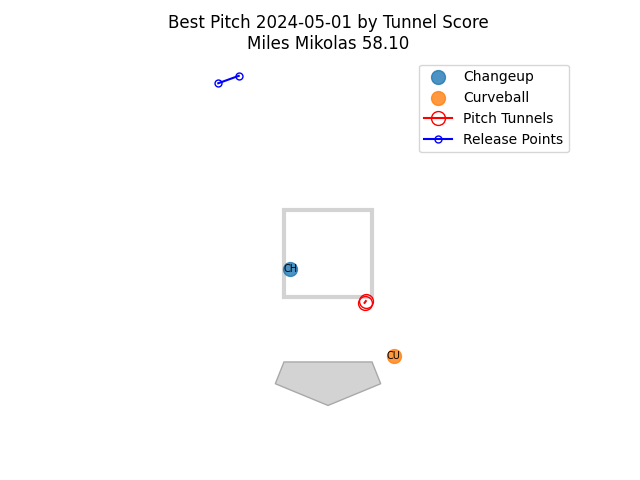
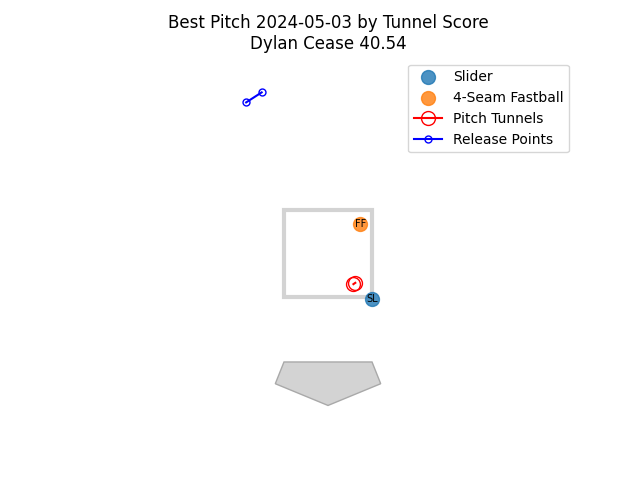
Fixed bug where yesterday was hard coded into a constant, making it such that the program will always post the best tunnel score from the day you initially start the program and not increment days. Also included more in depth error handling and logging to the screen and debugging options as well.

diff --git a/MLBTunnelBot/update.py b/MLBTunnelBot/update.py
@@ -1,29 +1,26 @@
-from typing import Optional
 import polars as pl
+import pandas as pd
 import numpy as np
 import pybaseball
 import datetime
 from matplotlib import axes
+from typing import Any
 
+from .exceptions import EmptyStatcastDFException
 from .plot_tunnel import plot_strike_zone
-from .data import keeper_cols
+from .data import KEEPER_COLS
 
 
-YEAR = str(datetime.date.today().year)
-MONTH = str(datetime.date.today().month)
-YESTERDAY = datetime.date.today() - datetime.timedelta(days=1)
-
-
-def _get_yesterdays_pitches() -> Optional[pl.DataFrame]:
+def _get_yesterdays_pitches(yesterdays_date: datetime.date) -> pl.DataFrame:
     yesterday_df: pl.DataFrame = pl.from_pandas(
         pybaseball.statcast(
-            start_dt=str(YESTERDAY),
-            end_dt=str(YESTERDAY),
+            start_dt=f"{yesterdays_date}",
+            end_dt=f"{yesterdays_date}",
         )
     )
     if yesterday_df.is_empty():
-        # caller of this function handles when this is None
-        return None
+        raise EmptyStatcastDFException()
+
     return yesterday_df
 
 
@@ -49,8 +46,12 @@ def _get_player_names(pitches_df: pl.DataFrame) -> pl.DataFrame:
         pitchers["name_first"] + " " + pitchers["name_last"]
     ).str.title()
 
+    subset = pitchers[["key_mlbam", "name"]]
+    assert isinstance(
+        subset, pd.DataFrame
+    ), "name subset is not a dataframe."  # just to make my editor happy
     return pitches_df.join(
-        other=pl.from_pandas(pitchers[["key_mlbam", "name"]]),
+        other=pl.from_pandas(subset),
         left_on="pitcher",
         right_on="key_mlbam",
     )
@@ -91,7 +92,7 @@ def _compute_tunnel_score(statcast_pitches_df: pl.DataFrame) -> pl.DataFrame:
     )
 
 
-def _plot_pitches(tunneled_pitch: pl.DataFrame) -> axes.Axes:
+def _plot_pitches(tunneled_pitch: pl.DataFrame, yesterday: datetime.date) -> axes.Axes:
     # input should be a polars dataframe with just one pitch
     # and it s previous one
 
@@ -137,14 +138,16 @@ def _plot_pitches(tunneled_pitch: pl.DataFrame) -> axes.Axes:
         data=pitch2.join(
             other=pl.concat([p1, p2]), on=["game_date", "at_bat_number"]
         ).to_pandas(),
-        title=f"Best Pitch {YESTERDAY} by Tunnel Score\n{pitcher} {tunnel_score:.2f}",
+        title=f"Best Pitch {yesterday} by Tunnel Score\n{pitcher} {tunnel_score:.2f}",
         colorby="pitch_name",
         annotation="pitch_type",
     )
     return fig
 
 
-def _get_film_room_video(pitch: pl.DataFrame) -> tuple[str, str]:
+def _get_film_room_video(
+    pitch: pl.DataFrame, yesterday: datetime.date
+) -> tuple[str, str]:
     inning = pitch.select("inning").item()
     top_bot = pitch.select("inning_topbot").item()  # needs to be either TOP or BOT
     balls = pitch.select("balls").item()
@@ -156,35 +159,41 @@ def _get_film_room_video(pitch: pl.DataFrame) -> tuple[str, str]:
     prev_strikes = pitch.select("prev_strikes").item()
     prev_balls = pitch.select("prev_balls").item()
 
-    url1 = f"https://www.mlb.com/video/?q=Season+%3D+%5B{YEAR}%5D+AND+Date+%3D+%5B%22{YESTERDAY}%22%5D+AND+PitcherId+%3D+%5B{pitcher_id}%5D+AND+TopBottom+%3D+%5B%22{top_bot.upper()}%22%5D+AND+Outs+%3D+%5B{outs}%5D+AND+Balls+%3D+%5B{balls}%5D+AND+Strikes+%3D+%5B{strikes}%5D+AND+Inning+%3D+%5B{inning}%5D+Order+By+Timestamp+DESC"
-    url2 = f"https://www.mlb.com/video/?q=Season+%3D+%5B{YEAR}%5D+AND+Date+%3D+%5B%22{YESTERDAY}%22%5D+AND+PitcherId+%3D+%5B{pitcher_id}%5D+AND+TopBottom+%3D+%5B%22{top_bot.upper()}%22%5D+AND+Outs+%3D+%5B{prev_outs}%5D+AND+Balls+%3D+%5B{prev_balls}%5D+AND+Strikes+%3D+%5B{prev_strikes}%5D+AND+Inning+%3D+%5B{inning}%5D+Order+By+Timestamp+DESC"
-    return url1, url2
+    year = yesterday.year
+    return (
+        f"https://www.mlb.com/video/?q=Season+%3D+%5B{year}%5D+AND+Date+%3D+%5B%22{yesterday}%22%5D+AND+PitcherId+%3D+%5B{pitcher_id}%5D+AND+TopBottom+%3D+%5B%22{top_bot.upper()}%22%5D+AND+Outs+%3D+%5B{outs}%5D+AND+Balls+%3D+%5B{balls}%5D+AND+Strikes+%3D+%5B{strikes}%5D+AND+Inning+%3D+%5B{inning}%5D+Order+By+Timestamp+DESC",
+        f"https://www.mlb.com/video/?q=Season+%3D+%5B{year}%5D+AND+Date+%3D+%5B%22{yesterday}%22%5D+AND+PitcherId+%3D+%5B{pitcher_id}%5D+AND+TopBottom+%3D+%5B%22{top_bot.upper()}%22%5D+AND+Outs+%3D+%5B{prev_outs}%5D+AND+Balls+%3D+%5B{prev_balls}%5D+AND+Strikes+%3D+%5B{prev_strikes}%5D+AND+Inning+%3D+%5B{inning}%5D+Order+By+Timestamp+DESC",
+    )
 
 
-def yesterdays_top_tunnel() -> Optional[dict[str, str | float]]:
-    yesterdays_df: Optional[pl.DataFrame] = _get_yesterdays_pitches()
-    if yesterdays_df is None:
-        return None
+def yesterdays_top_tunnel(yesterday: datetime.date) -> dict[str, Any]:
+    yesterdays_df: pl.DataFrame = _get_yesterdays_pitches(yesterday)
 
     tied_df: pl.DataFrame = _tie_pitches_to_previous(yesterdays_df)
     tunnel_df: pl.DataFrame = _compute_tunnel_score(tied_df)
 
     # drop missing values from tunnel_df
-    tunnel_df = tunnel_df.drop_nulls(subset=keeper_cols).select(
-        keeper_cols,
+    tunnel_df = tunnel_df.drop_nulls(subset=KEEPER_COLS).select(
+        KEEPER_COLS,
     )
 
     tunnel_df = (
-        tunnel_df.drop_nulls(subset=keeper_cols)
-        .select(keeper_cols)
+        tunnel_df.drop_nulls(subset=KEEPER_COLS)
+        .select(KEEPER_COLS)
         .sort("tunnel_score", descending=True)
         .head(1)
     )
 
     tunnel_df = _get_player_names(tunnel_df)  # add player names to the dataframe
-    _ = _plot_pitches(tunnel_df)  # this will save the plot to the assets folder
-    film_room_link1, film_room_link2 = _get_film_room_video(pitch=tunnel_df)
+    _ = _plot_pitches(
+        tunnel_df, yesterday=yesterday
+    )  # this will save the plot to the assets folder
+    film_room_link1, film_room_link2 = _get_film_room_video(
+        pitch=tunnel_df,
+        yesterday=yesterday,
+    )
     return dict(
+        yesterday=yesterday,
         pitcher_name=tunnel_df.select("name").item(),
         pitcher_id=tunnel_df.select("pitcher").item(),
         pitch_type=tunnel_df.select("pitch_name").item(),

diff --git a/MLBTunnelBot/x.py b/MLBTunnelBot/x.py
@@ -1,15 +1,11 @@
-from typing import Optional
+import datetime
+from typing import Any
 import requests
 import logging
 
 from .x_api_info import api, client
-from .update import yesterdays_top_tunnel, YESTERDAY
-from .data import (
-    hashtag_map,
-    TUNNEL_PLOT_DIR,
-    PROFILE_PIC_DIR,
-    DEFAULT_PROFILE_PIC_DIR,
-)
+from .update import yesterdays_top_tunnel
+from .data import *
 
 
 def _update_profile_picture(player_mlbam_id: str | float) -> None:
@@ -36,22 +32,22 @@ def _build_tweet_text(**kwargs) -> str:
     assert kwargs is not None, "No kwargs passed to _build_tweet_text"
     assert isinstance(kwargs, dict), "kwargs is not a dictionary in _build_tweet_text"
 
-    pitcher_name = kwargs.get("pitcher_name")
-    pitch_type = kwargs.get("pitch_type")
-    home_team = kwargs.get("home_team")
-    away_team = kwargs.get("away_team")
-    pitch1_link = kwargs.get("film_room_link1")
-    pitch2_link = kwargs.get("film_room_link2")
-    tunnel_score = kwargs.get("tunnel_score")
+    for arg in BUILD_TWEET_ARGS:
+        assert arg in kwargs.keys(), f"{arg} not in build tweet kwargs."
 
-    title = f"TOP PITCH BY TUNNEL SCORE {YESTERDAY}"
-    t_score = f"{pitcher_name} {pitch_type}: {tunnel_score:.3f}"
-    team_hashtags = (
-        f"#{hashtag_map.get(home_team, home_team)} vs. "
-        f"#{hashtag_map.get(away_team, away_team)}"
-    )
-    link_text = f"MLB Film Room Links:\nprevious pitch: {pitch1_link}\ntunneled pitch: {pitch2_link}"
-    other_hashtags = f"#MLBTunnelBot #MLB #Baseball #{''.join(pitcher_name.split())}"
+    title = f"TOP PITCH BY TUNNEL SCORE {kwargs["yesterday"]}"
+    t_score = f"{kwargs["pitcher_name"]} {kwargs["pitch_type"]}: {kwargs["tunnel_score"]:.3f}"
+
+    home_hashtag = HASHTAG_MAP.get(kwargs["home_team"], None)
+    away_hashtag = HASHTAG_MAP.get(kwargs["away_team"], None)
+
+    assert home_hashtag is not None, f"home hashtag is None for {kwargs["home_team"]}"
+    assert away_hashtag is not None, f"away hashtag is None for {kwargs["away_team"]}"
+
+    team_hashtags = f"#{away_hashtag} @ #{home_hashtag}"
+
+    link_text = f"MLB Film Room Links:\nprevious pitch: {kwargs["film_room_link1"]}\ntunneled pitch: {kwargs["film_room_link2"]}"
+    other_hashtags = f"#MLBTunnelBot #MLB #Baseball #{''.join(kwargs["pitcher_name"].split())}"
     return "\n\n".join(
         [
             title,
@@ -63,21 +59,26 @@ def _build_tweet_text(**kwargs) -> str:
     )
 
 
-def write() -> bool:
-    pitch_info: Optional[dict[str, str | float]] = yesterdays_top_tunnel()
-
-    if pitch_info is None:
-        logging.warning(f"There must not have been any games on {YESTERDAY}")
-        return False
+def write(yesterday: datetime.date, _debug=False) -> None:
+    pitch_info: dict[str, Any] = yesterdays_top_tunnel(
+        yesterday=yesterday,
+    )
 
     tunnel_plot = api.media_upload(filename=TUNNEL_PLOT_DIR)
     pitcher_id = pitch_info.get("pitcher_id", None)
 
-    assert tunnel_plot is not None
-    assert pitcher_id is not None
+    assert pitcher_id is not None, f"pitcher_id is None."
+    assert isinstance(pitcher_id, int), f"pitcher_id is not an integer."
+    assert tunnel_plot is not None, f"tunnel_plot is None."
+
+    if _debug:
+        return
+
+    # TODO: handle twitter api exceptions
     _update_profile_picture(player_mlbam_id=pitcher_id)
+
     client.create_tweet(
         text=_build_tweet_text(kwargs=pitch_info),
         media_ids=[tunnel_plot.media_id],
     )
-    return True
+

diff --git a/MLBTunnelBot/data.py b/MLBTunnelBot/data.py
@@ -6,8 +6,18 @@ TUNNEL_PLOT_DIR = os.path.join(ASSET_DIR, "tunnel_plot.png")
 PROFILE_PIC_DIR = os.path.join(ASSET_DIR, "profile_pic.jpg")
 DEFAULT_PROFILE_PIC_DIR = os.path.join(ASSET_DIR, "default_profile_pic.png")
 
+BUILD_TWEET_ARGS: list[str] = [
+    "yesterday",
+    "pitcher_name",
+    "pitch_type",
+    "home_team",
+    "away_team",
+    "film_room_link1",
+    "film_room_link2",
+    "tunnel_score",
+]
 
-keeper_cols: list[str] = [
+KEEPER_COLS: list[str] = [
     "pitcher",
     "batter",
     "home_team",
@@ -52,27 +62,25 @@ keeper_cols: list[str] = [
 
 # 2024 mlb team official hashtags
 # https://lwosports.com/the-offical-mlb-hashtags-for-the-2024-season/
-hashtag_map = {
+HASHTAG_MAP: dict[str, str] = {
     "ARI": "DBacks",
+    "AZ": "DBacks",
     "ATL": "BravesCountry",
     "BAL": "Birdland",
     "BOS": "DirtyWater",
     "CHC": "YouHaveToSeeIt",
     "CWS": "WhiteSox",
-    "CHW": "WhiteSox",
     "CIN": "ATOBTTR",
     "CLE": "ForTheLand",
     "COL": "Rockies",
     "DET": "RepDetroit",
-    "FLA": "HomeOfBeisbol",
     "MIA": "HomeOfBeisbol",
-    "KAN": "WelcomeToTheCity",
+    "KC": "WelcomeToTheCity",
     "OAK": "Athletics",
     "STL": "ForTheLou",
     "HOU": "Relentless",
     "NYM": "LGM",
     "NYY": "RepBX",
-    "SFG": "SFGiants",
     "SF": "SFGiants",
     "PHI": "RingTheBell",
     "PIT": "LetsGoBucs",
@@ -82,9 +90,9 @@ hashtag_map = {
     "LAD": "LetsGoDodgers",
     "SD": "LetsGoPadres",
     "TB": "RaysUp",
-    "TBR": "RaysUp",
     "WSH": "NATITUDE",
     "SEA": "TridentsUp",
     "TEX": "StraightUpTX",
     "TOR": "TOTHECORE",
 }
+

diff --git a/main.py b/main.py
@@ -1,20 +1,37 @@
-import MLBTunnelBot.x as MLBTunnelBot
-from MLBTunnelBot.update import YESTERDAY
+import MLBTunnelBot
+import datetime
 import logging
 import time
 
 
+logging.basicConfig(level=logging.INFO)
+
+
 def mainloop() -> None:
     while True:
-        success: bool = MLBTunnelBot.write()
-        if not success:
-            logging.warning(
-                # the specific reason for why it
-                # failed will have been logged before this
-                f"Skipping {YESTERDAY} due to unsuccessful write."
-            )
+        yesterday = datetime.date.today() - datetime.timedelta(days=1)
+        start_time = time.time()
 
-        time.sleep(24 * 60 * 60)
+        try:
+            _ = MLBTunnelBot.write(yesterday=yesterday)
+            logging.info(f"Successful write for {yesterday}")
+
+        except MLBTunnelBot.EmptyStatcastDFException:
+            logging.error(f"Skipping {yesterday} due to empty statcast data.")
+
+        except AssertionError as e:
+            logging.error(f"Skipping {yesterday} due to assertion error: {e}.")
+
+        except Exception as e:
+            logging.error(f"Unexpected issue for {yesterday}'s write: {e}.")
+
+        finally:
+            end_time = time.time()
+            sleep_time = (24 * 60 * 60) - (end_time - start_time)
+            logging.info(
+                f"Sleeping until {datetime.datetime.now() + datetime.timedelta(seconds=sleep_time)}"
+            )
+            time.sleep(sleep_time)
 
 
 if __name__ == "__main__":

diff --git a/MLBTunnelBot/exceptions.py b/MLBTunnelBot/exceptions.py
@@ -1,0 +1,8 @@
+class EmptyStatcastDFException(Exception):
+    """
+    Raised when yesterdays statcast data is empty.
+    This can happen if there were no games yesterday,
+    or the script was run too early (before statcast has been updated).
+    """
+
+    pass

diff --git a/MLBTunnelBot/__init__.py b/MLBTunnelBot/__init__.py
@@ -1,0 +1,2 @@
+from .exceptions import EmptyStatcastDFException
+from .x import write
